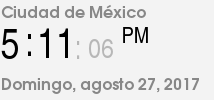
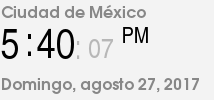
update images 27-08-2017 17:40

Changed region(s): [[0.1682, 0.27, 0.3645, 0.6], [0.4766, 0.39, 0.5327, 0.6]]

diff --git a/README.md b/README.md
@@ -13827,3 +13827,5 @@
 |27-08-2017 16:50
 |27-08-2017 17:03
 |27-08-2017 17:11
+|27-08-2017 17:20
+|27-08-2017 17:40
